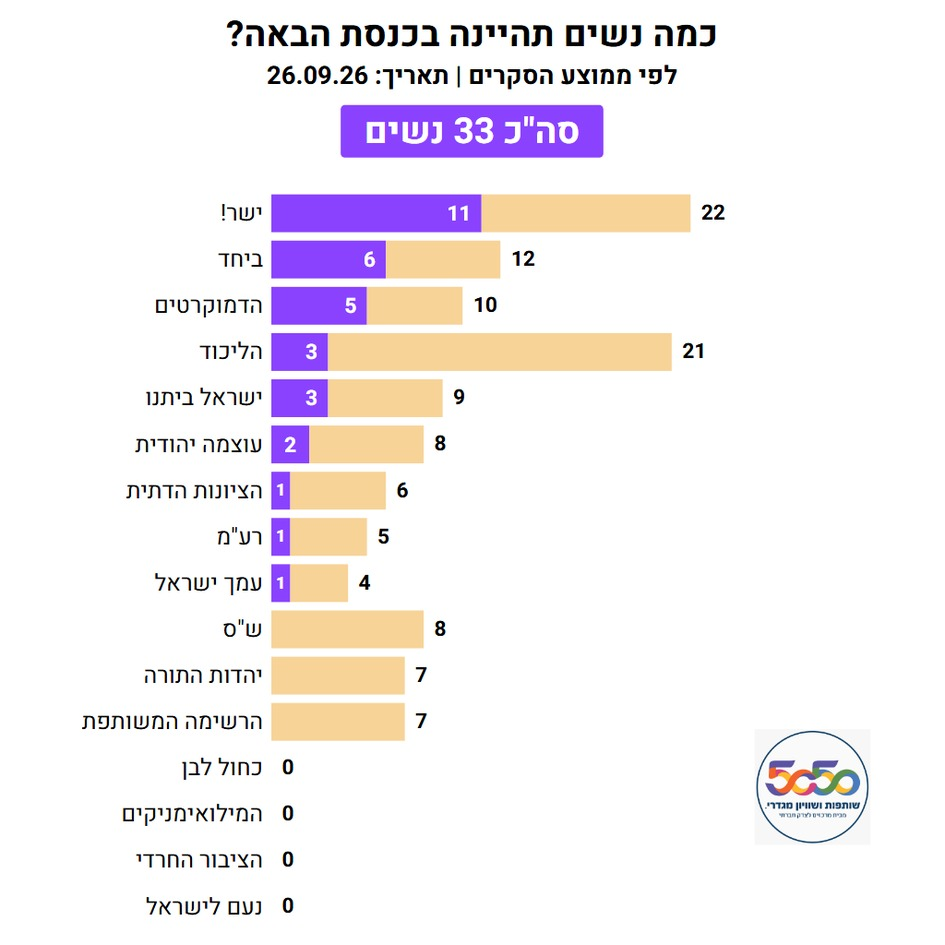
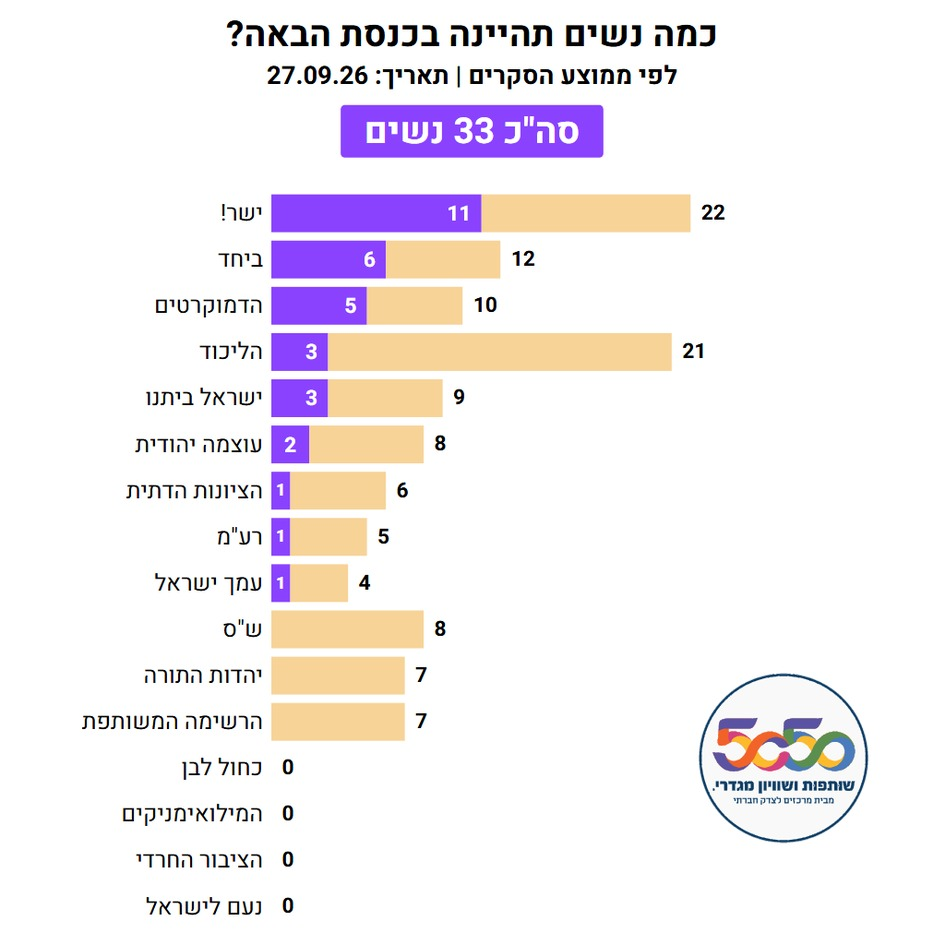
update plots and plot code

Changed region(s): [[0.7365, 0.7058, 0.9206, 0.8899], [0.2762, 0.0614, 0.3376, 0.0921]]

diff --git a/plot_women_by_outlet.py b/plot_women_by_outlet.py
@@ -106,7 +106,7 @@ except ImportError as exc:  # pragma: no cover
 # supplies the data.
 TEMPLATES_DIR = Path(__file__).resolve().parent / "templates"
 FONTS_DIR = Path(__file__).resolve().parent / "fonts"
-LOGO_PATH = TEMPLATES_DIR / "assets" / "logo_5050.jpg"
+LOGO_PATH = TEMPLATES_DIR / "assets" / "logo_5050.svg"
 EMAIL_TEMPLATE_PATH = TEMPLATES_DIR / "assets" / "text_for_email.txt"
 
 
@@ -200,9 +200,23 @@ ARC_VIEWBOX_WIDTH = 2 * (_ARC_MID_R + ARC_BLOC_RECT_WIDTH / 2 + ARC_CONTENT_MARG
 ARC_VIEWBOX_MIN_Y = 0
 ARC_VIEWBOX_HEIGHT = 420
 
-ARC_LOGO_WIDTH = 110
-ARC_LOGO_HEIGHT = 65
-ARC_LOGO_POS = (ARC_CX - ARC_LOGO_WIDTH / 2, ARC_CY + 10)
+ARC_LOGO_WIDTH = 165  # the 5050 logo itself, centered below the arc
+ARC_LOGO_HEIGHT = 98
+# Anchored to the canvas's bottom edge (ARC_VIEWBOX_HEIGHT) minus a fixed
+# margin, rather than a fixed offset from ARC_CY -- a fixed offset left the
+# logo's bottom edge wherever ARC_LOGO_HEIGHT happened to land, which is what
+# let it grow past the bottom of the canvas and get clipped when the logo
+# was enlarged. This keeps it fully on-canvas (with the same small margin)
+# no matter how tall the logo is.
+ARC_LOGO_BOTTOM_MARGIN = 12
+ARC_LOGO_POS = (ARC_CX - ARC_LOGO_WIDTH / 2,
+                 ARC_VIEWBOX_HEIGHT - ARC_LOGO_BOTTOM_MARGIN - ARC_LOGO_HEIGHT)
+
+# The outlet logo (see OUTLET_LOGO_FILES) in the header -- kept a separate,
+# smaller size from ARC_LOGO_WIDTH above (the 5050 logo) on purpose: the two
+# started out matched 1:1, but they're independent now, so bumping one no
+# longer drags the other along with it.
+ARC_OUTLET_LOGO_WIDTH = 135
 
 # Gap (px) between the outlet logo and the title/subtitle text column in the
 # header's .header-text-row -- must match that rule's CSS `gap` in
@@ -406,8 +420,7 @@ def build_arc_chart_data(opp_women: int, opp_men: int, coal_women: int,
         "outlet_name": outlet_name,
         "poll_date_str": poll_date_str,
         "outlet_logo_data_uri": _outlet_logo_data_uri(outlet_name) if outlet_name else None,
-        "outlet_logo_width": ARC_LOGO_WIDTH,
-        "outlet_logo_height": ARC_LOGO_HEIGHT,
+        "outlet_logo_width": ARC_OUTLET_LOGO_WIDTH,
         "logo_data_uri": logo_data_uri,
         "logo_pos": ARC_LOGO_POS,
         "logo_width": ARC_LOGO_WIDTH,
@@ -437,7 +450,7 @@ def _heebo_data_uris() -> dict:
 
 def _logo_data_uri():
     if LOGO_PATH.exists():
-        return _data_uri(LOGO_PATH, "image/jpeg")
+        return _data_uri(LOGO_PATH, "image/svg+xml")
     print(f"  warning: logo file not found at {LOGO_PATH}, charts will be "
           f"generated without it")
     return None
@@ -549,8 +562,13 @@ BAR_HEADROOM_MULTIPLIER = 1.3  # empty space reserved past the longest bar,
                                 # smaller = longer bars (closer to filling
                                 # BAR_AREA_COL_WIDTH); 1.0 would let the
                                 # longest bar touch the column's edge
-BAR_LOGO_SIZE = 110  # matches templates/bar_chart.html.j2's .logo-floating
-                      # size and the reference mockup's .logo-floating
+BAR_LOGO_SIZE = 165  # the 5050 logo itself, floating bottom-right
+
+# The outlet logo (see OUTLET_LOGO_FILES) in the header -- kept a separate,
+# smaller size from BAR_LOGO_SIZE above (the 5050 logo) on purpose: the two
+# started out matched 1:1, but they're independent now, so bumping one no
+# longer drags the other along with it.
+BAR_OUTLET_LOGO_SIZE = 135
 
 # A women-bar this narrow can't fit its own number left-aligned with padding
 # at the normal font size -- two tiers, matching the reference mockup: a
@@ -587,7 +605,7 @@ def render_bar_chart_html(title_line1: str, title_line2: str, rows: list,
         outlet_name=outlet_name,
         poll_date_str=poll_date_str,
         outlet_logo_data_uri=_outlet_logo_data_uri(outlet_name) if outlet_name else None,
-        outlet_logo_size=BAR_LOGO_SIZE,
+        outlet_logo_size=BAR_OUTLET_LOGO_SIZE,
         **_heebo_data_uris(),
     )
     _render_html_to_square_jpg(html, out_path, css_width=BAR_CHART_CSS_WIDTH,
@@ -1096,24 +1114,38 @@ def main():
     # Preserve the order in which outlet/date polls first appear in the sheet
     polls = df[[COL_OUTLET, COL_DATE]].drop_duplicates().itertuples(index=False)
 
+    # Per-poll charts are a snapshot of that specific historical poll -- once
+    # a poll has been plotted, its numbers never change, so there's no need
+    # to pay for another LibreOffice-recalc'd render + headless-Chromium
+    # screenshot on every run. Skip a poll's chart(s) entirely when the
+    # output file already exists in output_dir, and only render the ones
+    # that are actually new (plus the mean/aggregate poll below, which is
+    # NOT skipped -- it changes every time any poll is added, so it's always
+    # regenerated).
     for outlet, date_raw in polls:
         df_poll = df[(df[COL_OUTLET] == outlet) & (df[COL_DATE] == date_raw)]
         date_str = format_poll_date(date_raw)
 
         fname = f"women_seats_{sanitize_filename(outlet)}_{date_str.replace('.', '-')}.jpg"
         out_path = output_dir / fname
-        plot_poll(df_poll, outlet, date_raw, out_path)
-        print(f"  wrote {out_path.name}")
+        if out_path.exists():
+            print(f"  skipping {out_path.name}: already exists (not a new poll)")
+        else:
+            plot_poll(df_poll, outlet, date_raw, out_path)
+            print(f"  wrote {out_path.name}")
 
         pie_out_path = None
         if mapping is not None:
             pie_fname = f"women_by_bloc_{sanitize_filename(outlet)}_{date_str.replace('.', '-')}.jpg"
             pie_out_path = output_dir / pie_fname
-            plot_pie_poll(df_poll, outlet, date_raw, mapping, pie_out_path)
             if pie_out_path.exists():
-                print(f"  wrote {pie_out_path.name}")
+                print(f"  skipping {pie_out_path.name}: already exists (not a new poll)")
             else:
-                pie_out_path = None  # plot_pie_poll skips 0-women polls
+                plot_pie_poll(df_poll, outlet, date_raw, mapping, pie_out_path)
+                if pie_out_path.exists():
+                    print(f"  wrote {pie_out_path.name}")
+            if not pie_out_path.exists():
+                pie_out_path = None  # 0-women poll: plot_pie_poll always skips these
 
         if args.create_email_drafts:
             if df_poll.empty or df_poll[COL_WOMEN].sum() == 0:
@@ -1127,7 +1159,10 @@ def main():
             save_gmail_draft(msg, app_password)
             print(f"  created email draft: {subject}")
 
-    # Also plot the aggregate "mean poll" (average-of-polls) estimate.
+    # Also plot the aggregate "mean poll" (average-of-polls) estimate --
+    # always regenerated (never skipped even if the file already exists),
+    # since it's recomputed from every poll above and changes any time a
+    # poll is added, unlike each individual poll's own fixed snapshot.
     df_mean = pd.read_excel(workbook_path, sheet_name=MEAN_SHEET_NAME)
     mean_out_path = output_dir / "women_seats_ממוצע_סקרים.jpg"
     plot_mean_poll(df_mean, mean_out_path)
